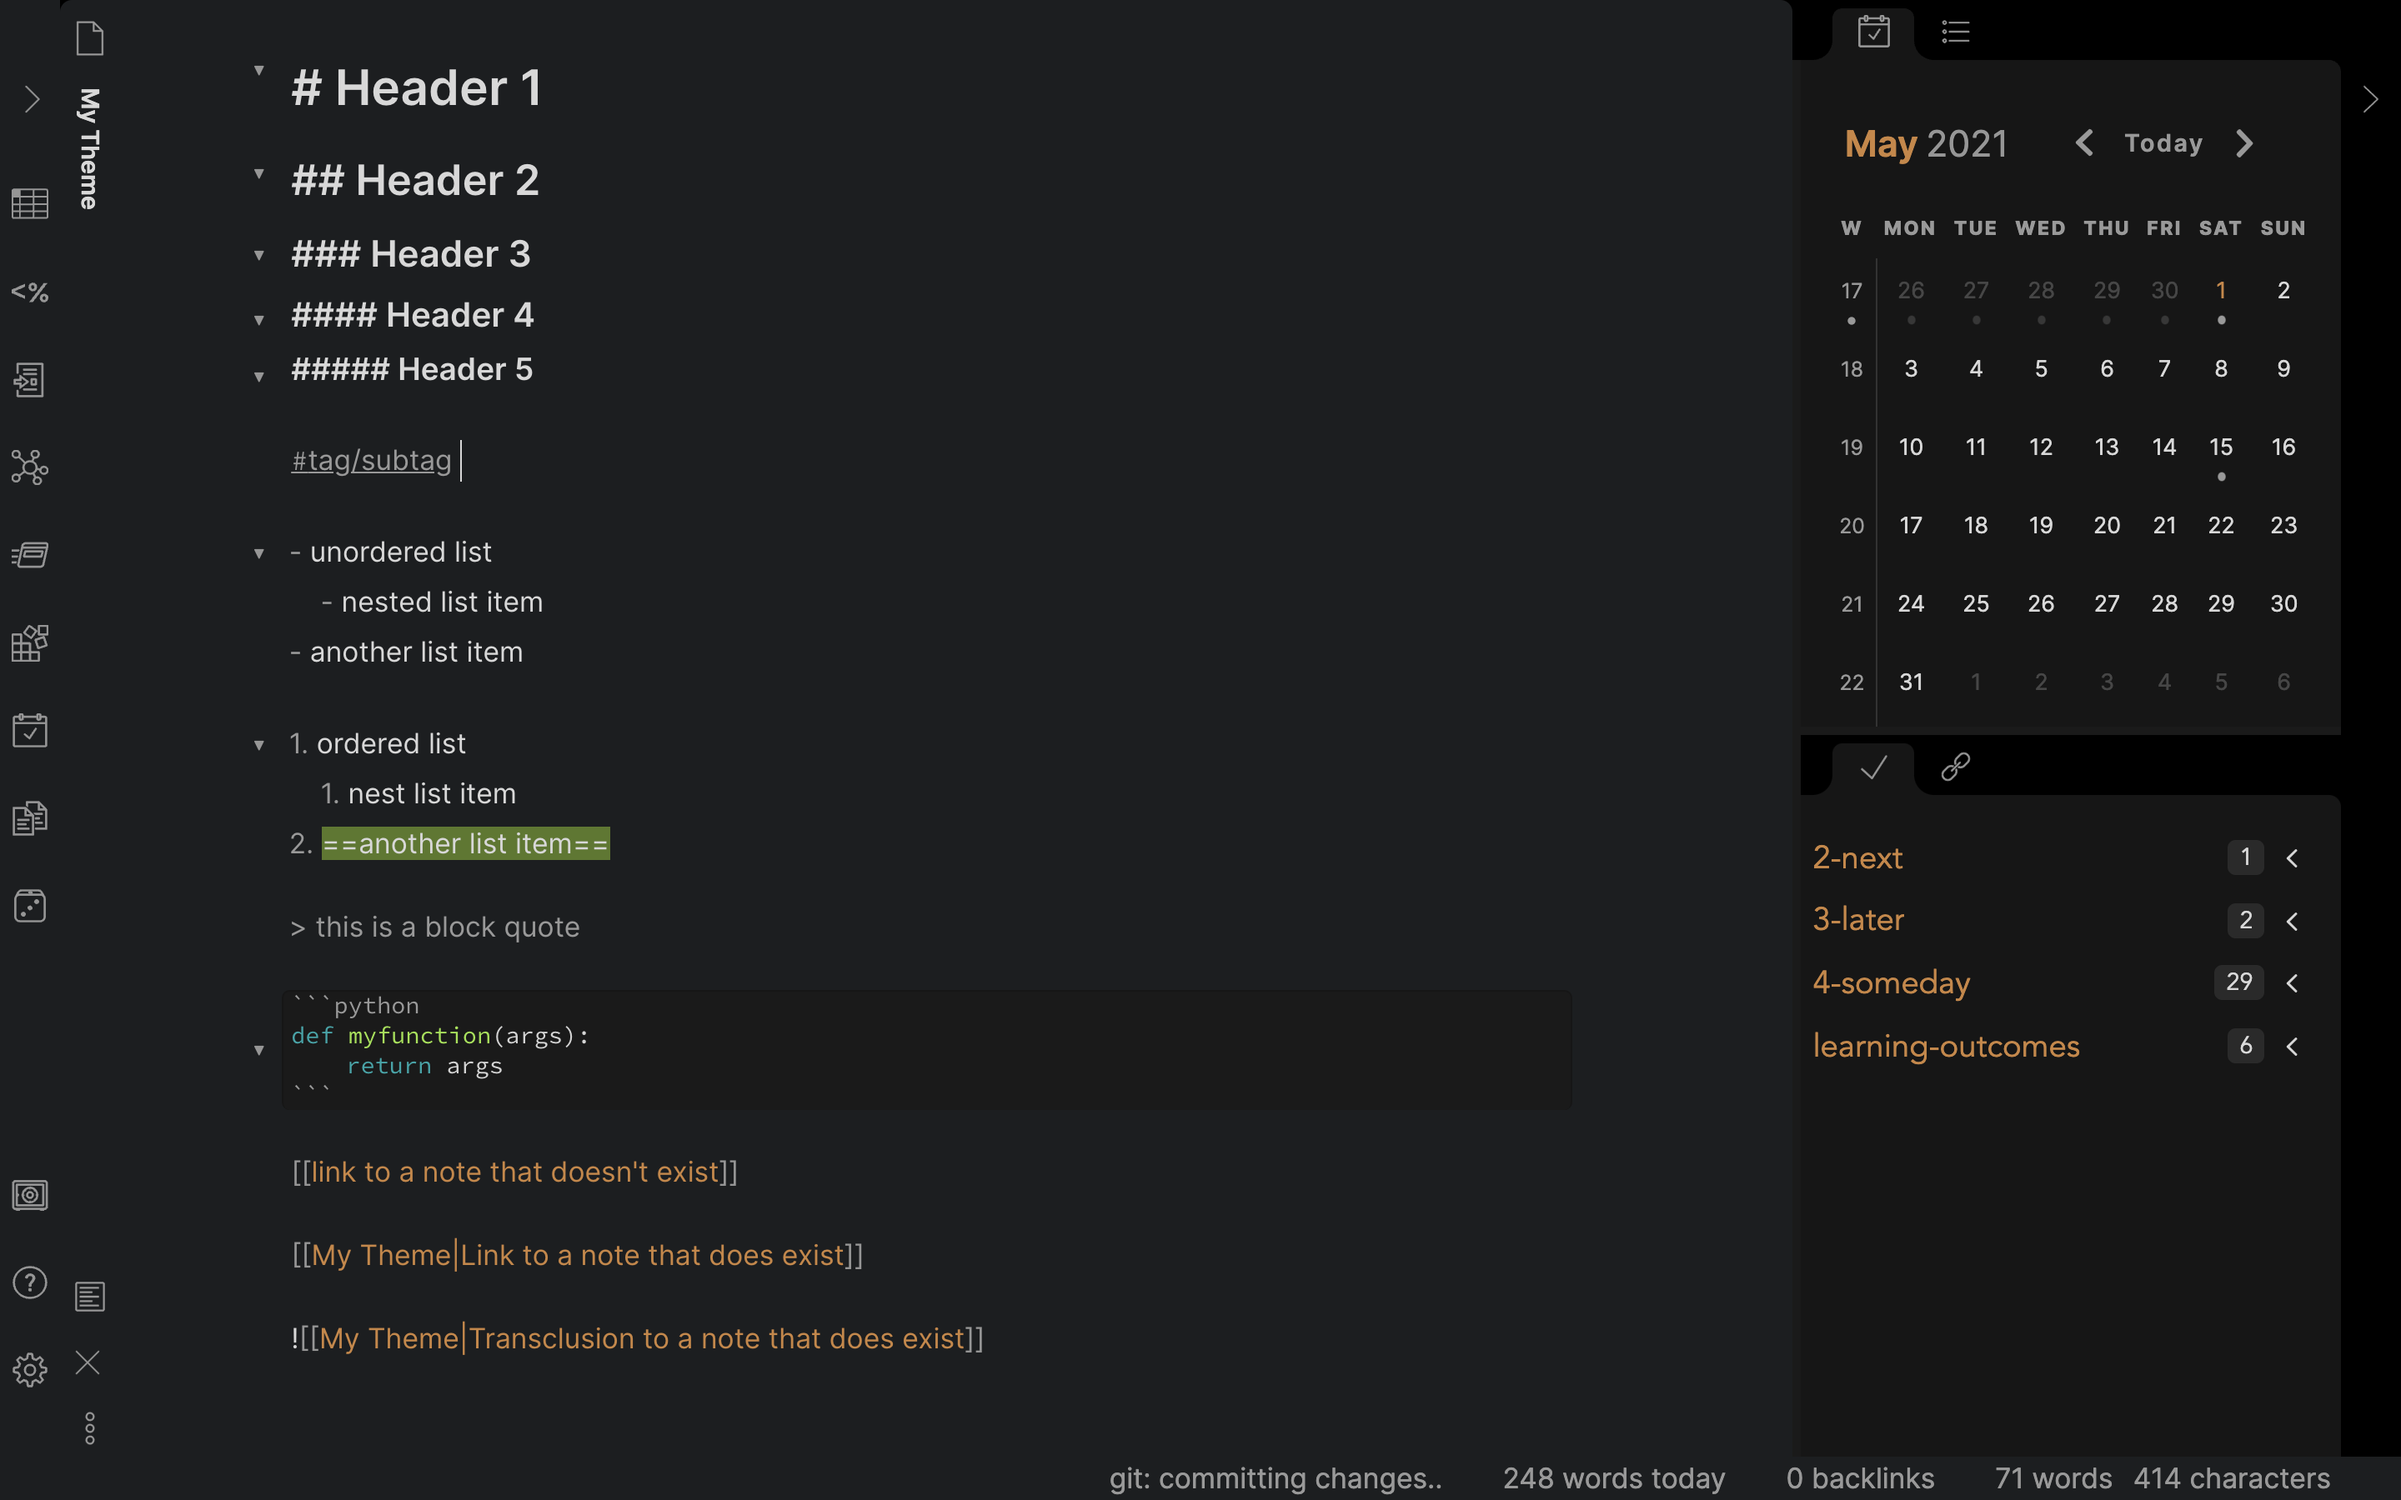
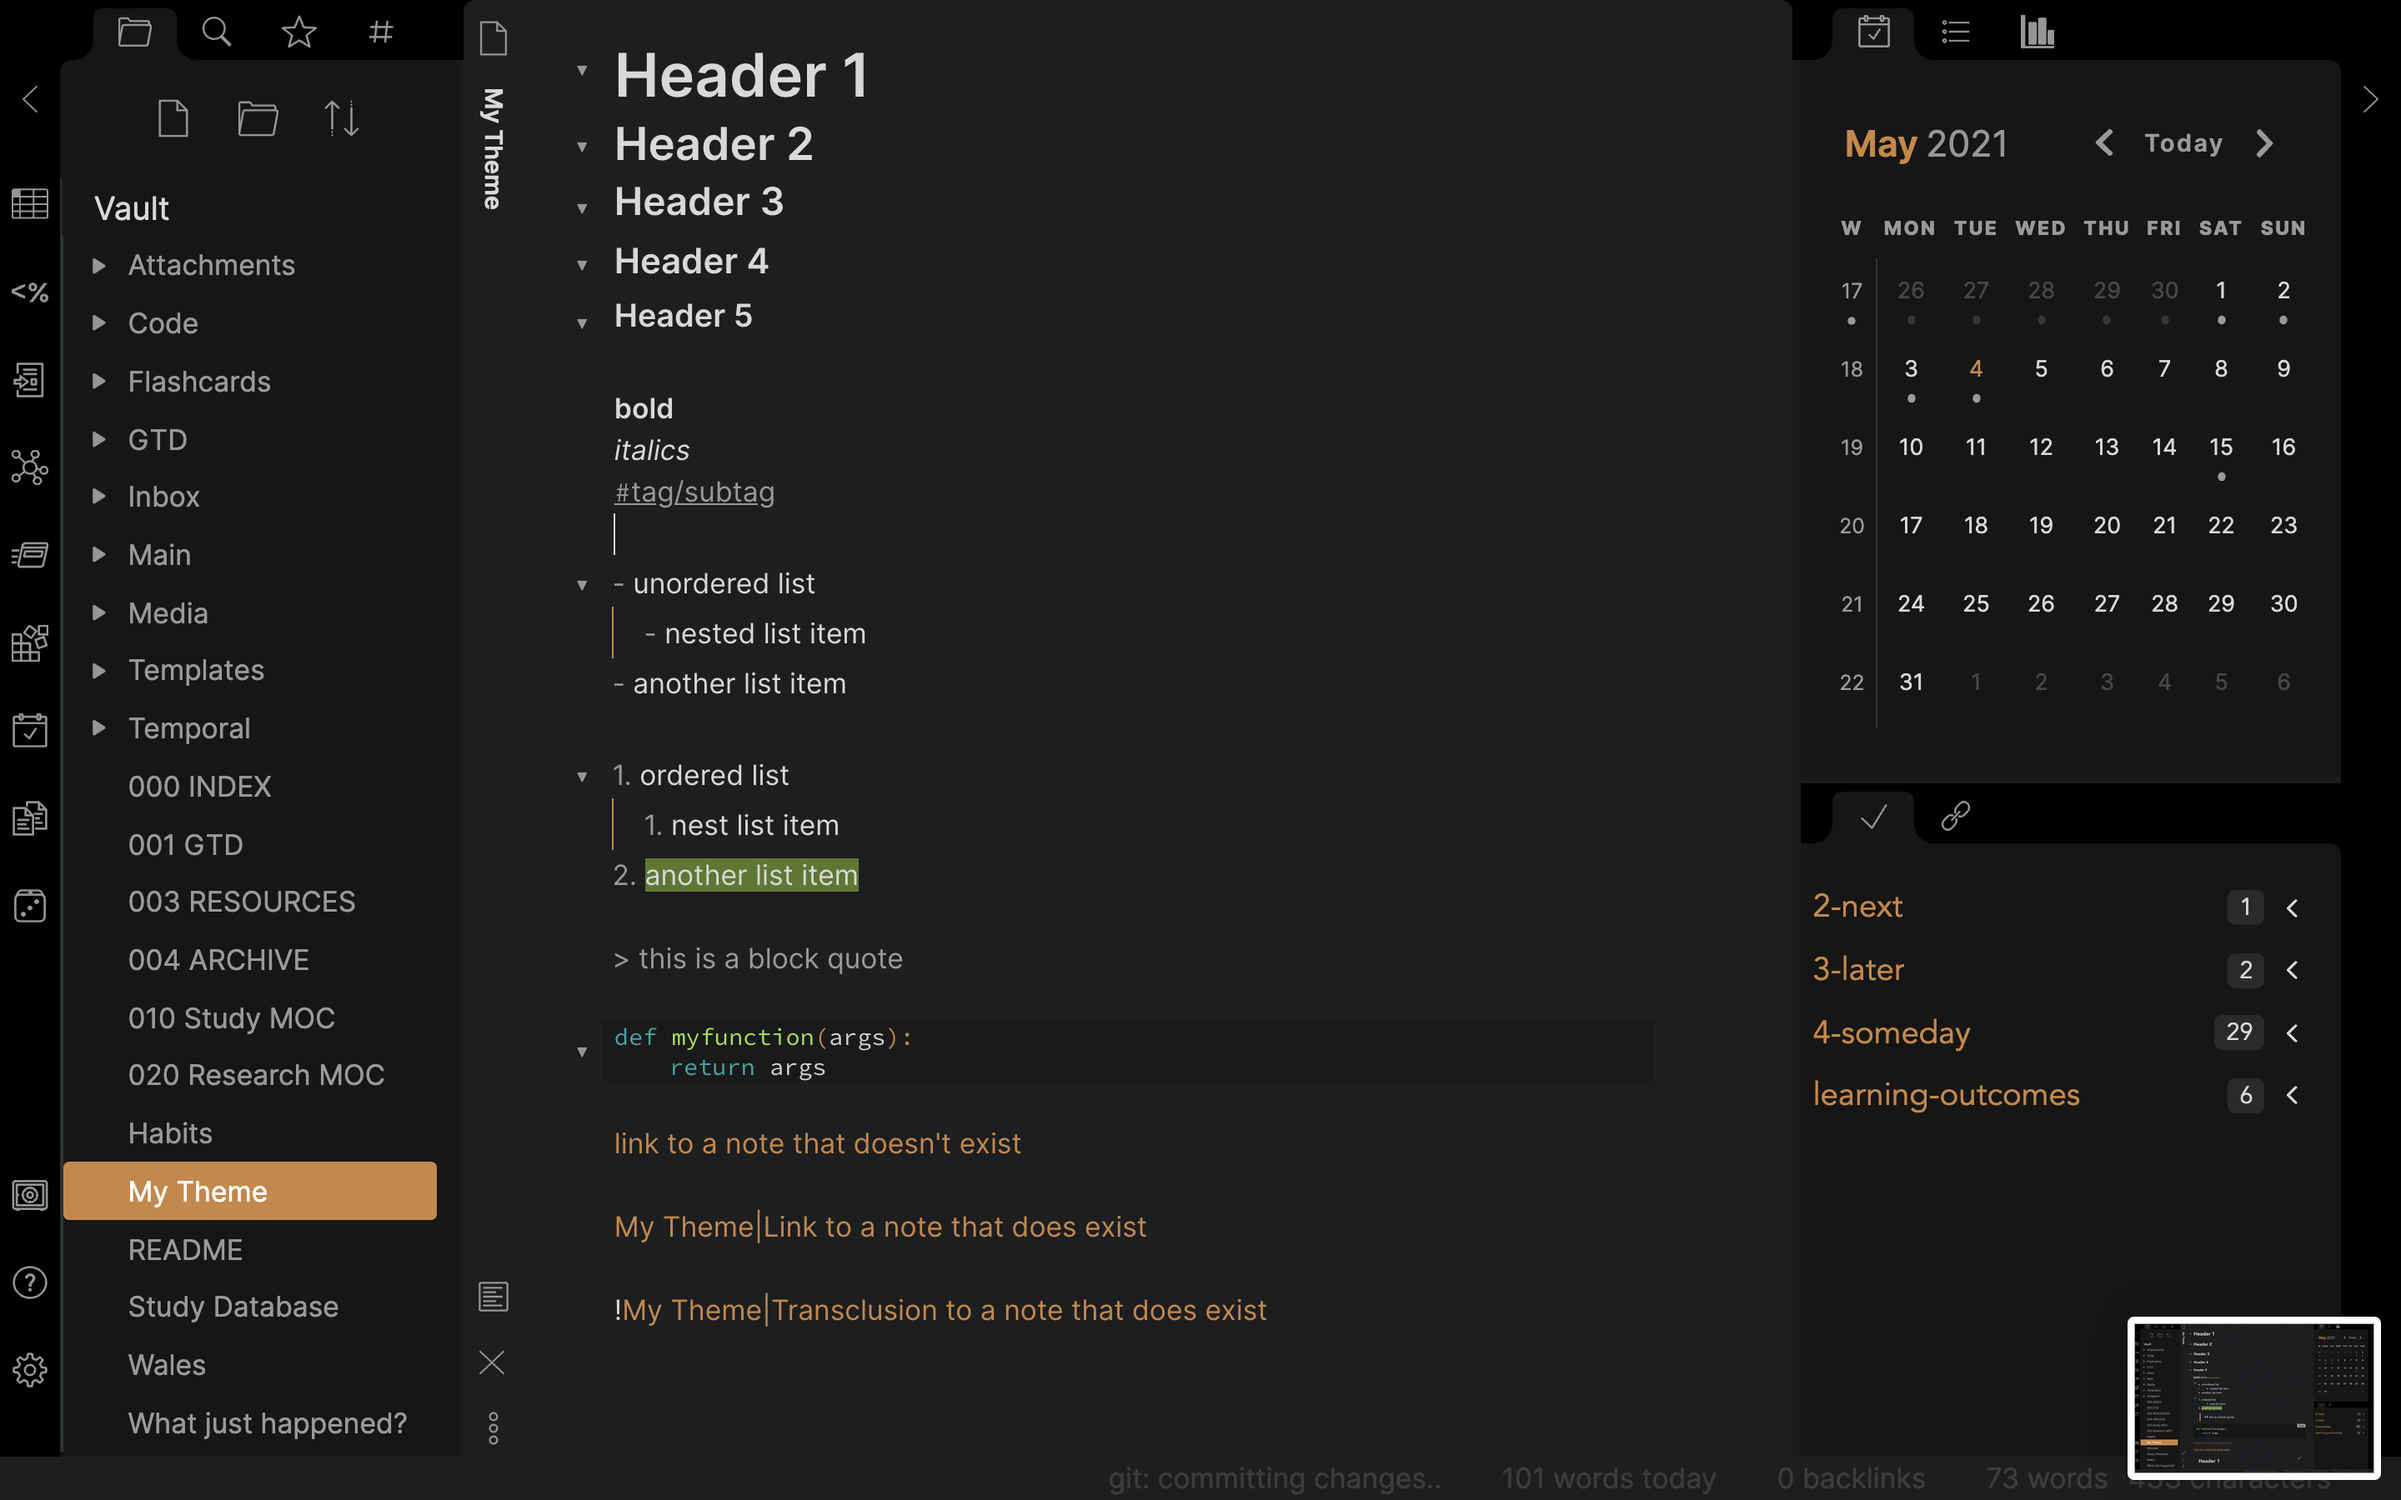
Added WYSIWYM and loads of other stuff

diff --git a/style.css b/style.css
@@ -15,27 +15,27 @@ body {
     --editor-font-size: 14px;
 }
 
-.cm-header-1, .markdown-preview-view h1 {
+h1 {
     font-size: 175%;
     line-height: 200%;
 }
 
-.cm-header-2, .markdown-preview-view h2 {
+h2 {
     font-size: 150%;
     line-height: 180%;
 }
 
-.cm-header-3, .markdown-preview-view h3 {
+h3 {
     font-size: 130%;
     line-height: 160%;
 }
 
-.cm-header-4, .markdown-preview-view h4 {
+h4 {
     font-size: 120%;
     line-height: 150%;
 }
 
-.cm-header-5, .markdown-preview-view h5 {
+h5 {
     font-size: 110%;
     line-height: 150%;
 }
@@ -45,6 +45,75 @@ body {
     font-weight: 600;
     overflow: auto;
 }
+
+/* -------------------
+WYSIWYG style editor
+Credit: Piotr, Obsidian forum
+--------------------- */
+
+div:not(.CodeMirror-activeline)>.CodeMirror-line span.cm-formatting-header,
+div:not(.CodeMirror-activeline)>.CodeMirror-line span.cm-formatting-strong,
+div:not(.CodeMirror-activeline)>.CodeMirror-line span.cm-formatting-em,
+div:not(.CodeMirror-activeline)>.CodeMirror-line span.cm-string.cm-url,
+div:not(.CodeMirror-activeline)>.CodeMirror-line span.cm-formatting-link,
+div:not(.CodeMirror-activeline)>.CodeMirror-line span.cm-hmd-barelink,
+div:not(.CodeMirror-activeline)>.CodeMirror-line span.cm-comment,
+div:not(.CodeMirror-activeline)>.CodeMirror-line span.cm-tag {
+    display: none;
+}
+
+/* ----------------------------------
+auto fades status bar items 
+Credit: rsdimitrov, Obsidian forum 
+----------------------------------- */
+
+.status-bar:not(:hover) .status-bar-item {
+  opacity: 0.25;
+  transition: opacity .25s ease-in-out;
+}
+
+/* -----------------------------------
+Add quotation character before quote 
+Credit: Thery, Obsidian forum
+------------------------------------ */
+blockquote:before {
+  font: 14px/20px italic Times, serif;
+  content: "“";
+  font-size: 3em;
+  line-height: 0.1em;
+  vertical-align: -0.4em;
+}
+blockquote p { display: inline; }
+
+/* ----------------------------------
+bigger link popup preview  
+Credit: _ph, Obsidian forum
+----------------------------------- */
+.popover.hover-popover {
+    transform: scale(0.8); /* makes the content smaller */
+    max-height: 800px;    /* was 300 */
+    min-height: 100px;
+    width: 500px;     /* was 400 */
+}
+
+/* -------------------------------------------
+outliner for the outline 
+Credit: Shamama, Obsidian forum
+-------------------------------------------- */
+.outline-heading-children{
+  border-left: 1px solid rgba(118,158,165,0.2);
+  border-radius:0 0px 0px 0;
+  transition:all 0.5s ease-in-out;
+}
+.outline-heading-children:hover{
+  border-left-color:rgba(118,158,165,0.4);
+}
+/* outliner for the file and folders */
+.nav-folder,.nav-file{
+  margin:0 !important;
+  border-left: 1px solid rgba(118,158,165,0.2);
+}
+
 
 /*---- PREVIEW MODE ----*/
 
@@ -116,6 +185,40 @@ a.tag {
     text-decoration: none;
 }
 
+/*---- LINES BETWEEN LIST LEVELS ----*/
+
+.cm-hmd-list-indent .cm-tab, ul ul { position: relative; }
+.cm-hmd-list-indent .cm-tab::before, ul ul::before {
+ content:'';
+ border-left: 1px solid var(--text-accent);
+ position: absolute;
+}
+
+.cm-hmd-list-indent .cm-tab::before { left: 0; top: -5px; bottom: -4px; 
+}
+
+ul ul::before { left: -11px; top: 0; bottom: 0; 
+} 
+
+/* ---------- CODE BLOCK (EDIT MODE) ------------- */
+
+.cm-s-obsidian .HyperMD-codeblock {
+    color: var(--text-accent)!important;
+}
+
+/* ---------- GRAPH ------------- */
+
+.graph-controls {
+    position: absolute;
+    background-color: var(--background-primary);
+    border: none;
+    opacity: 0;
+}
+
+.graph-controls:hover {
+    opacity: 1;
+}
+
 /*  ----------  LIGHT THEME ----------  */
 
 .theme-light {
@@ -141,7 +244,7 @@ a.tag {
     --text-accent: rgb(203, 77, 73);
     --text-accent-hover: rgb(203, 77, 73);
     --text-faint: rgb(150, 150, 150);
-    --text-header: rgb(44, 44, 44);
+    --text-header: rgb(203, 77, 73);
     --text-highlight-bg: #b4ff0066;
     --text-inline-code: rgb(45, 45, 45);
     --text-nav-selected: rgb(255, 255, 255);
